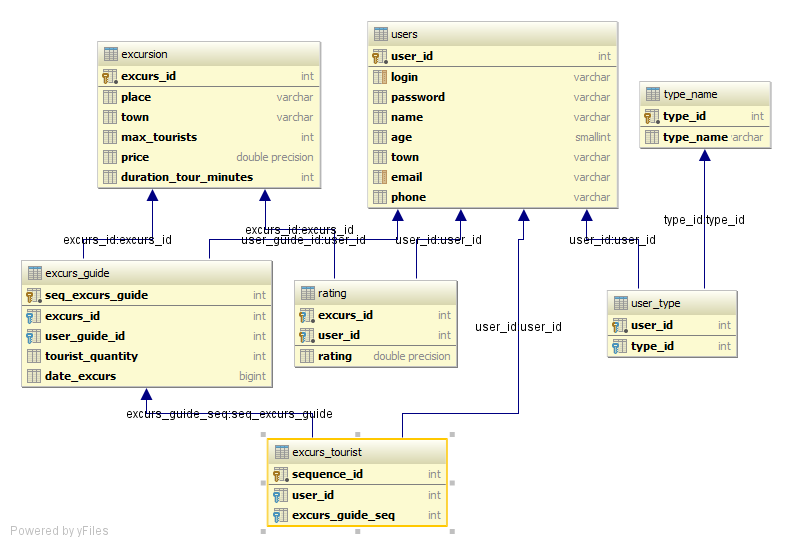
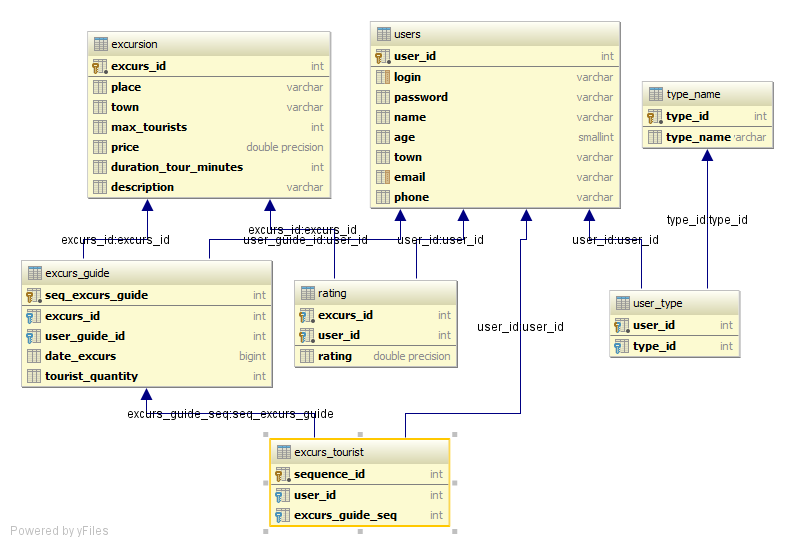
added to a table Excursion field "description"

diff --git a/src/main/java/domain/Excursion.java b/src/main/java/domain/Excursion.java
@@ -31,15 +31,20 @@ public class Excursion {
     @Column(name = "duration_tour_minutes")
     private Integer duration_tour_minutes;
 
-    public Excursion(String place, String town, Integer max_tourists, Double price, Integer duration_tour_minutes) {
+    @Column(name = "description")
+    private String description;
+
+    public Excursion() {
+    }
+
+    public Excursion(String place, String town, Integer max_tourists, Double price, Integer duration_tour_minutes, String description) {
         this.place = place;
         this.town = town;
         this.max_tourists = max_tourists;
         this.price = price;
         this.duration_tour_minutes = duration_tour_minutes;
+        this.description = description;
     }
-
-    public Excursion(){}
 
     public Integer getExcurs_id() {
         return excurs_id;
@@ -89,6 +94,14 @@ public class Excursion {
         this.duration_tour_minutes = duration_tour_minutes;
     }
 
+    public String getDescription() {
+        return description;
+    }
+
+    public void setDescription(String description) {
+        this.description = description;
+    }
+
     @Override
     public boolean equals(Object o) {
         if (this == o) return true;
@@ -96,6 +109,8 @@ public class Excursion {
 
         Excursion excursion = (Excursion) o;
 
+        if (description != null ? !description.equals(excursion.description) : excursion.description != null)
+            return false;
         if (duration_tour_minutes != null ? !duration_tour_minutes.equals(excursion.duration_tour_minutes) : excursion.duration_tour_minutes != null)
             return false;
         if (excurs_id != null ? !excurs_id.equals(excursion.excurs_id) : excursion.excurs_id != null) return false;
@@ -116,6 +131,7 @@ public class Excursion {
         result = 31 * result + (max_tourists != null ? max_tourists.hashCode() : 0);
         result = 31 * result + (price != null ? price.hashCode() : 0);
         result = 31 * result + (duration_tour_minutes != null ? duration_tour_minutes.hashCode() : 0);
+        result = 31 * result + (description != null ? description.hashCode() : 0);
         return result;
     }
 
@@ -128,6 +144,7 @@ public class Excursion {
                 ", max_tourists=" + max_tourists +
                 ", price=" + price +
                 ", duration_tour_minutes=" + duration_tour_minutes +
+                ", description='" + description + '\'' +
                 '}';
     }
 }
